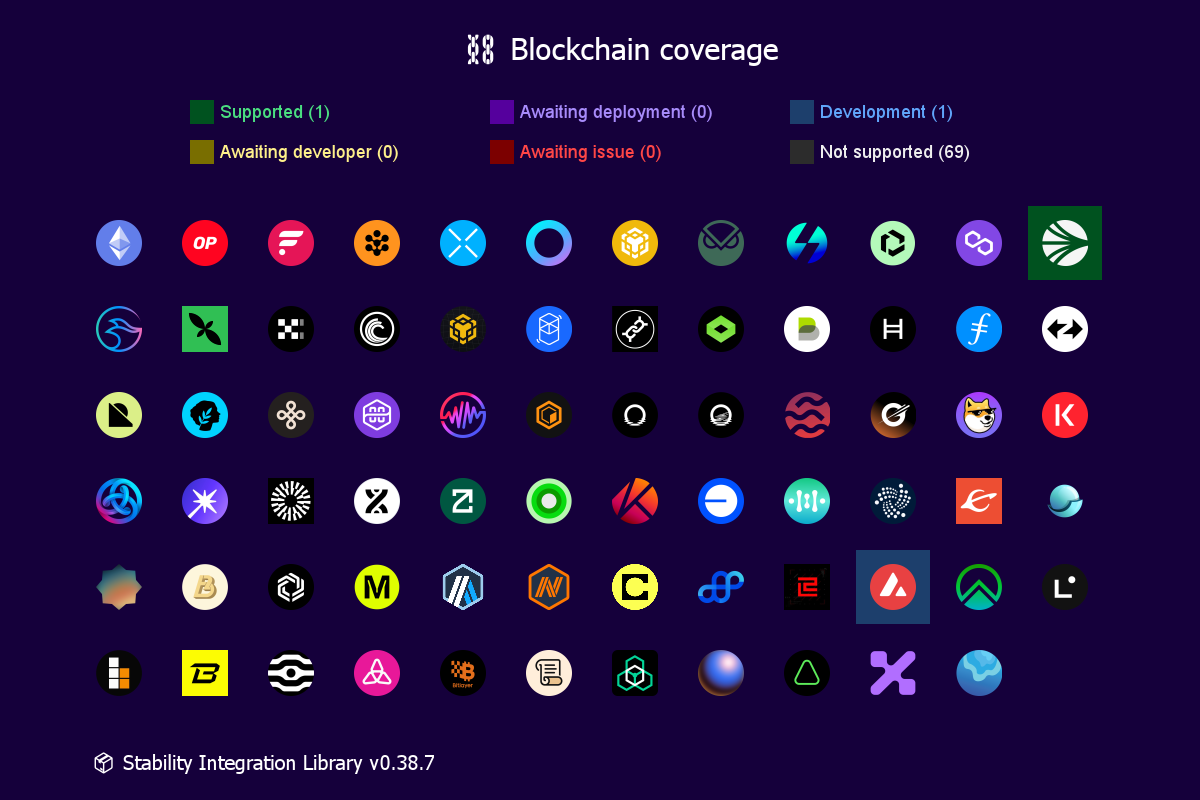
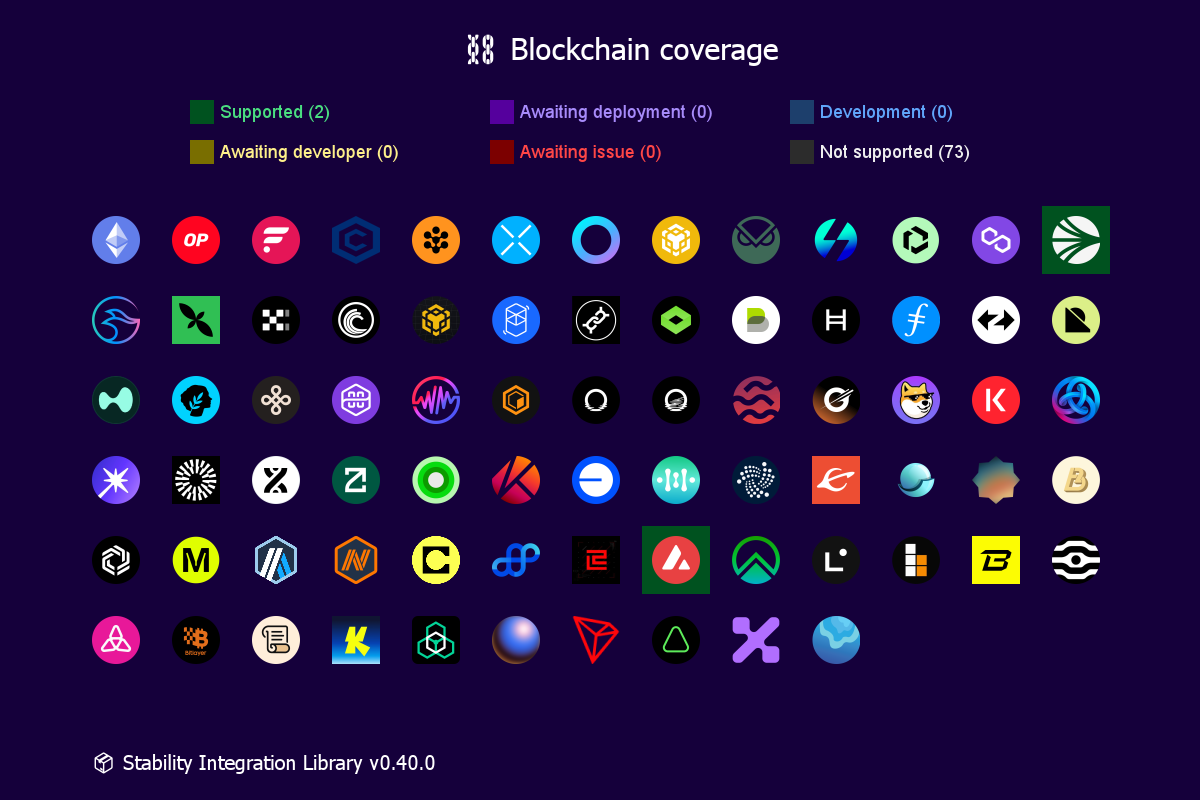
📦💲♻⛓Avalanche redeployment; add strategy; add chains

diff --git a/src/chains.ts b/src/chains.ts
@@ -97,6 +97,10 @@ export const enum ChainName {
   HELA = "Hela",
   ASSET_CHAIN = "Asset Chain",
   SONIC = "Sonic",
+  TRON = "Tron",
+  HYPERLIQUID = "Hyperliquid",
+  CRONOS = "Cronos",
+  KATANA = "Katana",
 }
 
 export const chains: { [chainId: string]: Chain } = {
@@ -120,6 +124,12 @@ export const chains: { [chainId: string]: Chain } = {
     chainId: 14,
     status: ChainStatus.NOT_SUPPORTED,
     img: "flare.png",
+  },
+  "25": {
+    name: ChainName.CRONOS,
+    chainId: 25,
+    status: ChainStatus.NOT_SUPPORTED,
+    img: "cronos.svg",
   },
   "30": {
     name: ChainName.ROOTSTOCK,
@@ -145,6 +155,12 @@ export const chains: { [chainId: string]: Chain } = {
     status: ChainStatus.NOT_SUPPORTED,
     img: "bsc.svg",
     multisig: "0xFad77AAD3C3b769500F8743C16A27FBf951e3A78",
+  },
+  "999": {
+    name: ChainName.HYPERLIQUID,
+    chainId: 999,
+    status: ChainStatus.NOT_SUPPORTED,
+    img: "Hyperliquid.png",
   },
   "100": {
     name: ChainName.GNOSIS,
@@ -372,6 +388,12 @@ export const chains: { [chainId: string]: Chain } = {
     multisig: "0x626Bd898ca994c11c9014377f4c50d30f2B0006c",
     chainLibGithubId: 143,
   },
+  "8668": {
+    name: ChainName.HELA,
+    chainId: 8668,
+    status: ChainStatus.NOT_SUPPORTED,
+    img: "hela.png",
+  },
   "8822": {
     name: ChainName.IOTA,
     chainId: 8822,
@@ -434,6 +456,12 @@ export const chains: { [chainId: string]: Chain } = {
     status: ChainStatus.NOT_SUPPORTED,
     img: "celo.svg",
   },
+  "42420": {
+    name: ChainName.ASSET_CHAIN,
+    chainId: 42420,
+    status: ChainStatus.NOT_SUPPORTED,
+    img: "Assetchain.svg",
+  },
   "42766": {
     name: ChainName.ZKFAIR,
     chainId: 42766,
@@ -445,7 +473,7 @@ export const chains: { [chainId: string]: Chain } = {
     chainId: 43114,
     status: ChainStatus.SUPPORTED,
     img: "avalanche.png",
-    multisig: "0xFad77AAD3C3b769500F8743C16A27FBf951e3A78",
+    multisig: "0x06111E02BEb85B57caebEf15F5f90Bc82D54da3A",
     chainLibGithubId: 369,
   },
   "48900": {
@@ -500,6 +528,12 @@ export const chains: { [chainId: string]: Chain } = {
     img: "scroll.svg",
     multisig: "0xFad77AAD3C3b769500F8743C16A27FBf951e3A78",
   },
+  "747474": {
+    name: ChainName.KATANA,
+    chainId: 747474,
+    status: ChainStatus.NOT_SUPPORTED,
+    img: "katana.png",
+  },
   "810180": {
     name: ChainName.ZKLINK,
     chainId: 810180,
@@ -511,6 +545,12 @@ export const chains: { [chainId: string]: Chain } = {
     chainId: 7777777,
     status: ChainStatus.NOT_SUPPORTED,
     img: "zora.svg",
+  },
+  "728126428": {
+    name: ChainName.TRON,
+    chainId: 728126428,
+    status: ChainStatus.NOT_SUPPORTED,
+    img: "tron.svg",
   },
   "1380012617": {
     name: ChainName.RARI,
@@ -529,18 +569,6 @@ export const chains: { [chainId: string]: Chain } = {
     chainId: 2046399126,
     status: ChainStatus.NOT_SUPPORTED,
     img: "skale-europa.png",
-  },
-  "8668": {
-    name: ChainName.HELA,
-    chainId: 8668,
-    status: ChainStatus.NOT_SUPPORTED,
-    img: "hela.png",
-  },
-  "42420": {
-    name: ChainName.ASSET_CHAIN,
-    chainId: 42420,
-    status: ChainStatus.NOT_SUPPORTED,
-    img: "Assetchain.svg",
   },
 };
 

diff --git a/src/deployments.ts b/src/deployments.ts
@@ -9,6 +9,7 @@ export type Deployment = {
     strategyLogic: `0x${string}`;
     zap: `0x${string}`;
     metaVaultFactory?: `0x${string}`;
+    vaultPriceOracle?: `0x${string}`;
   };
   markets?: {
     poolDataProvider: `0x${string}`;
@@ -172,21 +173,26 @@ export const deployments: { [chainId: string]: Deployment } = {
   },
   "43114": {
     core: {
-      platform: "0x94ae77b4e2dbF7799f7c41da3F50aBeE12Fde70e",
-      factory: "0x75954965331d7b9a6fdd2dc024512b8f36da4dbc",
-      metaVaultFactory: "0xe5953738bed4bd2c7efcc87afb87213c7afa1ae2",
-      hardWorker: "0x609e0d74fab81085283df92b563750624054f8be",
-      swapper: "0x3222eb4824ceb0e9ccfe11018c83429105dfe00f",
-      priceReader: "0x0a45e97aceba96650f47da979bde3a8642f26739",
-      strategyLogic: "0x818b506c7960d04b184c5c82ccc67e5643c1bf86",
-      vaultManager: "0xe845fc737fead52fc134d426e5ba0ee0a02b901a",
-      zap: "0x8216c9affc982428af33d1d9f165baf9d75aebba",
+      platform: "0x72b931a12aacda6729b4f8f76454855cb5195941",
+      factory: "0xe9d2fcad6b691a1642587a2b61886a173632ed00",
+      metaVaultFactory: "0x2fa6cc5e1dc2f6dd8806a3969f2e7fcbf5f75e89",
+      hardWorker: "0x78e6ff0546106a6ed20085ff6d75df800b8a1cf1",
+      swapper: "0x16549a43c566cdc648a9aaea6bed1d860b7b586a",
+      priceReader: "0x0a4e9791802180dca35772448264c5bdf957fd13",
+      strategyLogic: "0xc1a02058f23f23eccf68c304afb2cf7cba70f79a",
+      vaultManager: "0x9d718c2a305caf6ffbd96aaadc3808fc488417c1",
+      zap: "0x42f1eabb3d1a99e2db3372815de9c3c5be9f853f",
+      vaultPriceOracle: "0xa73edff514c66f1a6b443014204dbe92c3ef5671",
     },
     periphery: {
-      frontend: "0x4377cfeB93448B23Df47d9A8e16cc2c7Cb1b2066",
+      frontend: "0x7D41c82384019cc7014d338E18d9D6a33dDEA5BA",
     },
     subgraph:
-      "https://api.goldsky.com/api/public/project_cm2v16o5ct0ql01vr3m5o0vt2/subgraphs/stability-avalanche/0.0.56/gn",
+      "https://api.goldsky.com/api/public/project_cm2v16o5ct0ql01vr3m5o0vt2/subgraphs/stability-avalanche/0.0.57/gn",
     tokenomics: {},
+    ammAdapters: {
+      AlgebraV4: "0x80de8bcd77d880a9c819d80e86a069f63b5c3af2",
+      UniswapV3: "0x348a11e8562f356aabc54edb72017a00120f8ff4",
+    },
   },
 };

diff --git a/src/integrations.ts b/src/integrations.ts
@@ -264,6 +264,7 @@ export const integrations: { [org: string]: DeFiOrganization } = {
         // chains with active rewards
         chains: [
           ChainName.ETHEREUM,
+          ChainName.AVALANCHE,
           ChainName.BASE,
           ChainName.ARBITRUM,
           ChainName.POLYGON,
@@ -294,6 +295,8 @@ export const integrations: { [org: string]: DeFiOrganization } = {
           StrategyShortId.VMF,
           StrategyShortId.AMF,
           StrategyShortId.SiALMF,
+          StrategyShortId.SiMerklF,
+          StrategyShortId.SiMMF,
         ],
       },
     },
@@ -2085,10 +2088,12 @@ export const integrations: { [org: string]: DeFiOrganization } = {
         ],
         chains: [ChainName.ARBITRUM, ChainName.SONIC, ChainName.AVALANCHE],
         strategies: [
-          StrategyShortId.SiF,
-          StrategyShortId.SiL,
           StrategyShortId.Si,
+          StrategyShortId.SiL,
           StrategyShortId.SiMF,
+          StrategyShortId.SiF,
+          StrategyShortId.SiMMF,
+          StrategyShortId.SiMerklF,
         ],
       },
     },

diff --git a/src/strategies.ts b/src/strategies.ts
@@ -71,6 +71,7 @@ export const enum StrategyShortId {
   E = "E",
   SiMF = "SiMF",
   SiMMF = "SiMMF",
+  SiMerklF = "SiMerklF",
   SiALMF = "SiALMF",
   C = "C",
 }
@@ -718,6 +719,18 @@ export const strategies: { [shortId in StrategyShortId]: Strategy } = {
       nums: [],
       ticks: [],
     },
+  },
+  [StrategyShortId.SiMerklF]: {
+    id: "Silo Merkl Farm",
+    shortId: StrategyShortId.SiMerklF,
+    state: StrategyState.AWAITING,
+    contractGithubId: 384,
+    color: "#beaeae",
+    bgColor: "#221359",
+    baseStrategies: [BaseStrategy.FARMING, BaseStrategy.MERKL],
+    protocols: ["silo:siloV2", "angle:merkl"],
+    description:
+      "Supply asset to Silo V2 and earn farm rewards from Silo and Merkl",
   },
   [StrategyShortId.SiALMF]: {
     id: "Silo Advanced Leverage Merkl Farm",

diff --git a/tools/draw-chains.ts b/tools/draw-chains.ts
@@ -25,8 +25,8 @@ async function main() {
   const height = 800;
 
   // Chain blocks positioning
-  const chainBlockSize = 86;
-  const chainBlockPadding = 20;
+  const chainBlockSize = 80;
+  const chainBlockPadding = 16;
   const xPadding = 76;
 
   // download chain images
